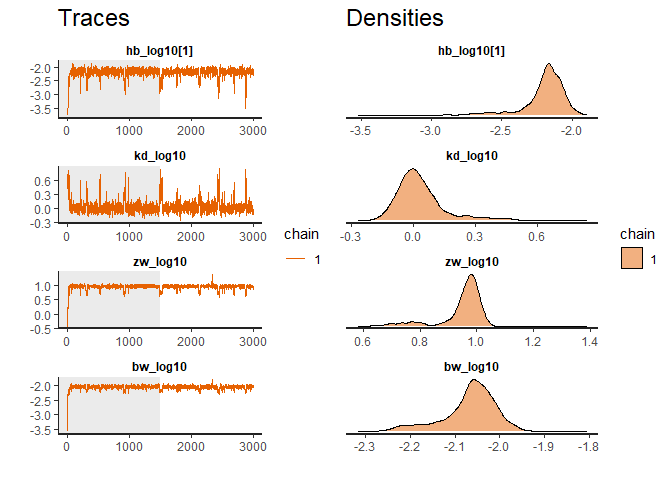
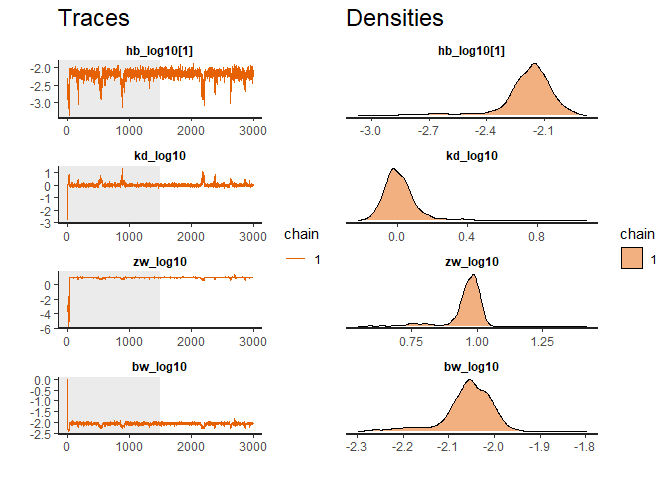
update readme

diff --git a/README.md b/README.md
@@ -7,6 +7,8 @@
 
 [![Lifecycle:
 stable](https://img.shields.io/badge/lifecycle-stable-green.svg)](https://lifecycle.r-lib.org/articles/stages.html#stable)
+![GitHub R package
+version](https://img.shields.io/github/r-package/v/bgoussen/BeeGUTS)
 [![CRAN
 status](https://www.r-pkg.org/badges/version/BeeGUTS)](https://CRAN.R-project.org/package=BeeGUTS)
 [![R-CMD-check](https://github.com/bgoussen/BeeGUTS/actions/workflows/R-CMD-check.yaml/badge.svg)](https://github.com/bgoussen/BeeGUTS/actions/workflows/R-CMD-check.yaml)
@@ -64,7 +66,7 @@ This is a basic example which shows you how to solve a common problem:
 
 ``` r
 library(BeeGUTS)
-#> BeeGUTS (Version 1.3.0, packaged on the: 2024-10-16 11:04:37 UTC)
+#> BeeGUTS (Version 1.3.0, packaged on the: )
 #> - For execution on a local, multicore CPU with excess RAM we recommend calling
 #>       options(mc.cores = parallel::detectCores()-1)
 #> - In addition to the functions provided by 'BeeGUTS', we recommend using the packages:
@@ -85,8 +87,8 @@ fit <- fitBeeGUTS(lsData, modelType = "SD", nIter = 3000, nChains = 1) # Fit a S
 #> 
 #> SAMPLING FOR MODEL 'GUTS_SD' NOW (CHAIN 1).
 #> Chain 1: 
-#> Chain 1: Gradient evaluation took 0.005427 seconds
-#> Chain 1: 1000 transitions using 10 leapfrog steps per transition would take 54.27 seconds.
+#> Chain 1: Gradient evaluation took 0.009315 seconds
+#> Chain 1: 1000 transitions using 10 leapfrog steps per transition would take 93.15 seconds.
 #> Chain 1: Adjust your expectations accordingly!
 #> Chain 1: 
 #> Chain 1: 
@@ -103,10 +105,16 @@ fit <- fitBeeGUTS(lsData, modelType = "SD", nIter = 3000, nChains = 1) # Fit a S
 #> Chain 1: Iteration: 2700 / 3000 [ 90%]  (Sampling)
 #> Chain 1: Iteration: 3000 / 3000 [100%]  (Sampling)
 #> Chain 1: 
-#> Chain 1:  Elapsed Time: 123.736 seconds (Warm-up)
-#> Chain 1:                95.622 seconds (Sampling)
-#> Chain 1:                219.358 seconds (Total)
+#> Chain 1:  Elapsed Time: 129.116 seconds (Warm-up)
+#> Chain 1:                111.89 seconds (Sampling)
+#> Chain 1:                241.006 seconds (Total)
 #> Chain 1:
+#> Warning: Bulk Effective Samples Size (ESS) is too low, indicating posterior means and medians may be unreliable.
+#> Running the chains for more iterations may help. See
+#> https://mc-stan.org/misc/warnings.html#bulk-ess
+#> Warning: Tail Effective Samples Size (ESS) is too low, indicating posterior variances and tail quantiles may be unreliable.
+#> Running the chains for more iterations may help. See
+#> https://mc-stan.org/misc/warnings.html#tail-ess
 traceplot(fit) # Produce a diagnostic plot of the fit
 ```
 
@@ -144,16 +152,16 @@ summary(fit) # Gives a summary of the results
 #> Posteriors of the parameters (quantiles) (select with '$Qposteriors'):
 #> 
 #>  parameters      median        Q2.5       Q97.5
-#>       hb[1] 6.80591e-03 2.01196e-03 1.02061e-02
+#>       hb[1] 6.84086e-03 2.22443e-03 1.02895e-02
 #>  parameters      median        Q2.5       Q97.5
-#>          kd 1.02593e+00 7.29306e-01 2.83339e+00
-#>          zw 9.35887e+00 5.04829e+00 1.07897e+01
-#>          bw 8.74272e-03 5.95570e-03 1.07498e-02
+#>          kd 1.00352e+00 7.30811e-01 2.54675e+00
+#>          zw 9.42670e+00 5.47979e+00 1.07731e+01
+#>          bw 8.87595e-03 6.05164e-03 1.06285e-02
 #> 
 #> 
-#>  Maximum Rhat computed (na.rm = TRUE): 1.009871 
-#>  Minimum Bulk_ESS: 110 
-#>  Minimum Tail_ESS: 100 
+#>  Maximum Rhat computed (na.rm = TRUE): 1.00324 
+#>  Minimum Bulk_ESS: 87 
+#>  Minimum Tail_ESS: 57 
 #>  Bulk_ESS and Tail_ESS are crude measures of effecting sampling size for
 #>       bulk and tail quantities respectively. An ESS > 100 per chain can be
 #>       considered as a good indicator. Rhat is an indicator of chains convergence.
@@ -168,8 +176,8 @@ validation <- validate(fit, lsData, fithb = TRUE) # produce a validation of the 
 #> 
 #> SAMPLING FOR MODEL 'GUTS_hb_only' NOW (CHAIN 1).
 #> Chain 1: 
-#> Chain 1: Gradient evaluation took 1.4e-05 seconds
-#> Chain 1: 1000 transitions using 10 leapfrog steps per transition would take 0.14 seconds.
+#> Chain 1: Gradient evaluation took 1.2e-05 seconds
+#> Chain 1: 1000 transitions using 10 leapfrog steps per transition would take 0.12 seconds.
 #> Chain 1: Adjust your expectations accordingly!
 #> Chain 1: 
 #> Chain 1: 
@@ -186,9 +194,9 @@ validation <- validate(fit, lsData, fithb = TRUE) # produce a validation of the 
 #> Chain 1: Iteration: 2700 / 3000 [ 90%]  (Sampling)
 #> Chain 1: Iteration: 3000 / 3000 [100%]  (Sampling)
 #> Chain 1: 
-#> Chain 1:  Elapsed Time: 0.099 seconds (Warm-up)
-#> Chain 1:                0.084 seconds (Sampling)
-#> Chain 1:                0.183 seconds (Total)
+#> Chain 1:  Elapsed Time: 0.083 seconds (Warm-up)
+#> Chain 1:                0.061 seconds (Sampling)
+#> Chain 1:                0.144 seconds (Total)
 #> Chain 1: 
 #> Bayesian Inference performed with Stan.
 #>  MCMC sampling setup (select with '$setupMCMC')
@@ -197,9 +205,9 @@ validation <- validate(fit, lsData, fithb = TRUE) # produce a validation of the 
 #>  Thinning interval: 1 
 #>  Number of chains: 1 
 #> 
-#> Maximum Rhat computed (na.rm = TRUE): 1.002364 
-#>  Minimum Bulk_ESS: 257 
-#>  Minimum Tail_ESS: 410 
+#> Maximum Rhat computed (na.rm = TRUE): 1.001884 
+#>  Minimum Bulk_ESS: 554 
+#>  Minimum Tail_ESS: 559 
 #>  Bulk_ESS and Tail_ESS are crude measures of effecting sampling size for
 #>       bulk and tail quantities respectively. An ESS > 100 per chain can be
 #>       considered as a good indicator. Rhat is an indicator of chains convergence.
@@ -208,7 +216,7 @@ validation <- validate(fit, lsData, fithb = TRUE) # produce a validation of the 
 #> 
 #> Results for hb: 
 #>  parameters      median        Q2.5       Q97.5
-#>          hb 0.002577455 0.000734436 0.006801764
+#>          hb 0.002416561 0.000691994 0.006066533
 #> Note that computing can be quite long (several minutes).
 #>   Tips: To reduce that time you can reduce Number of MCMC chains (default mcmc_size is set to 1000).
 plot(validation) # plot the validation results
